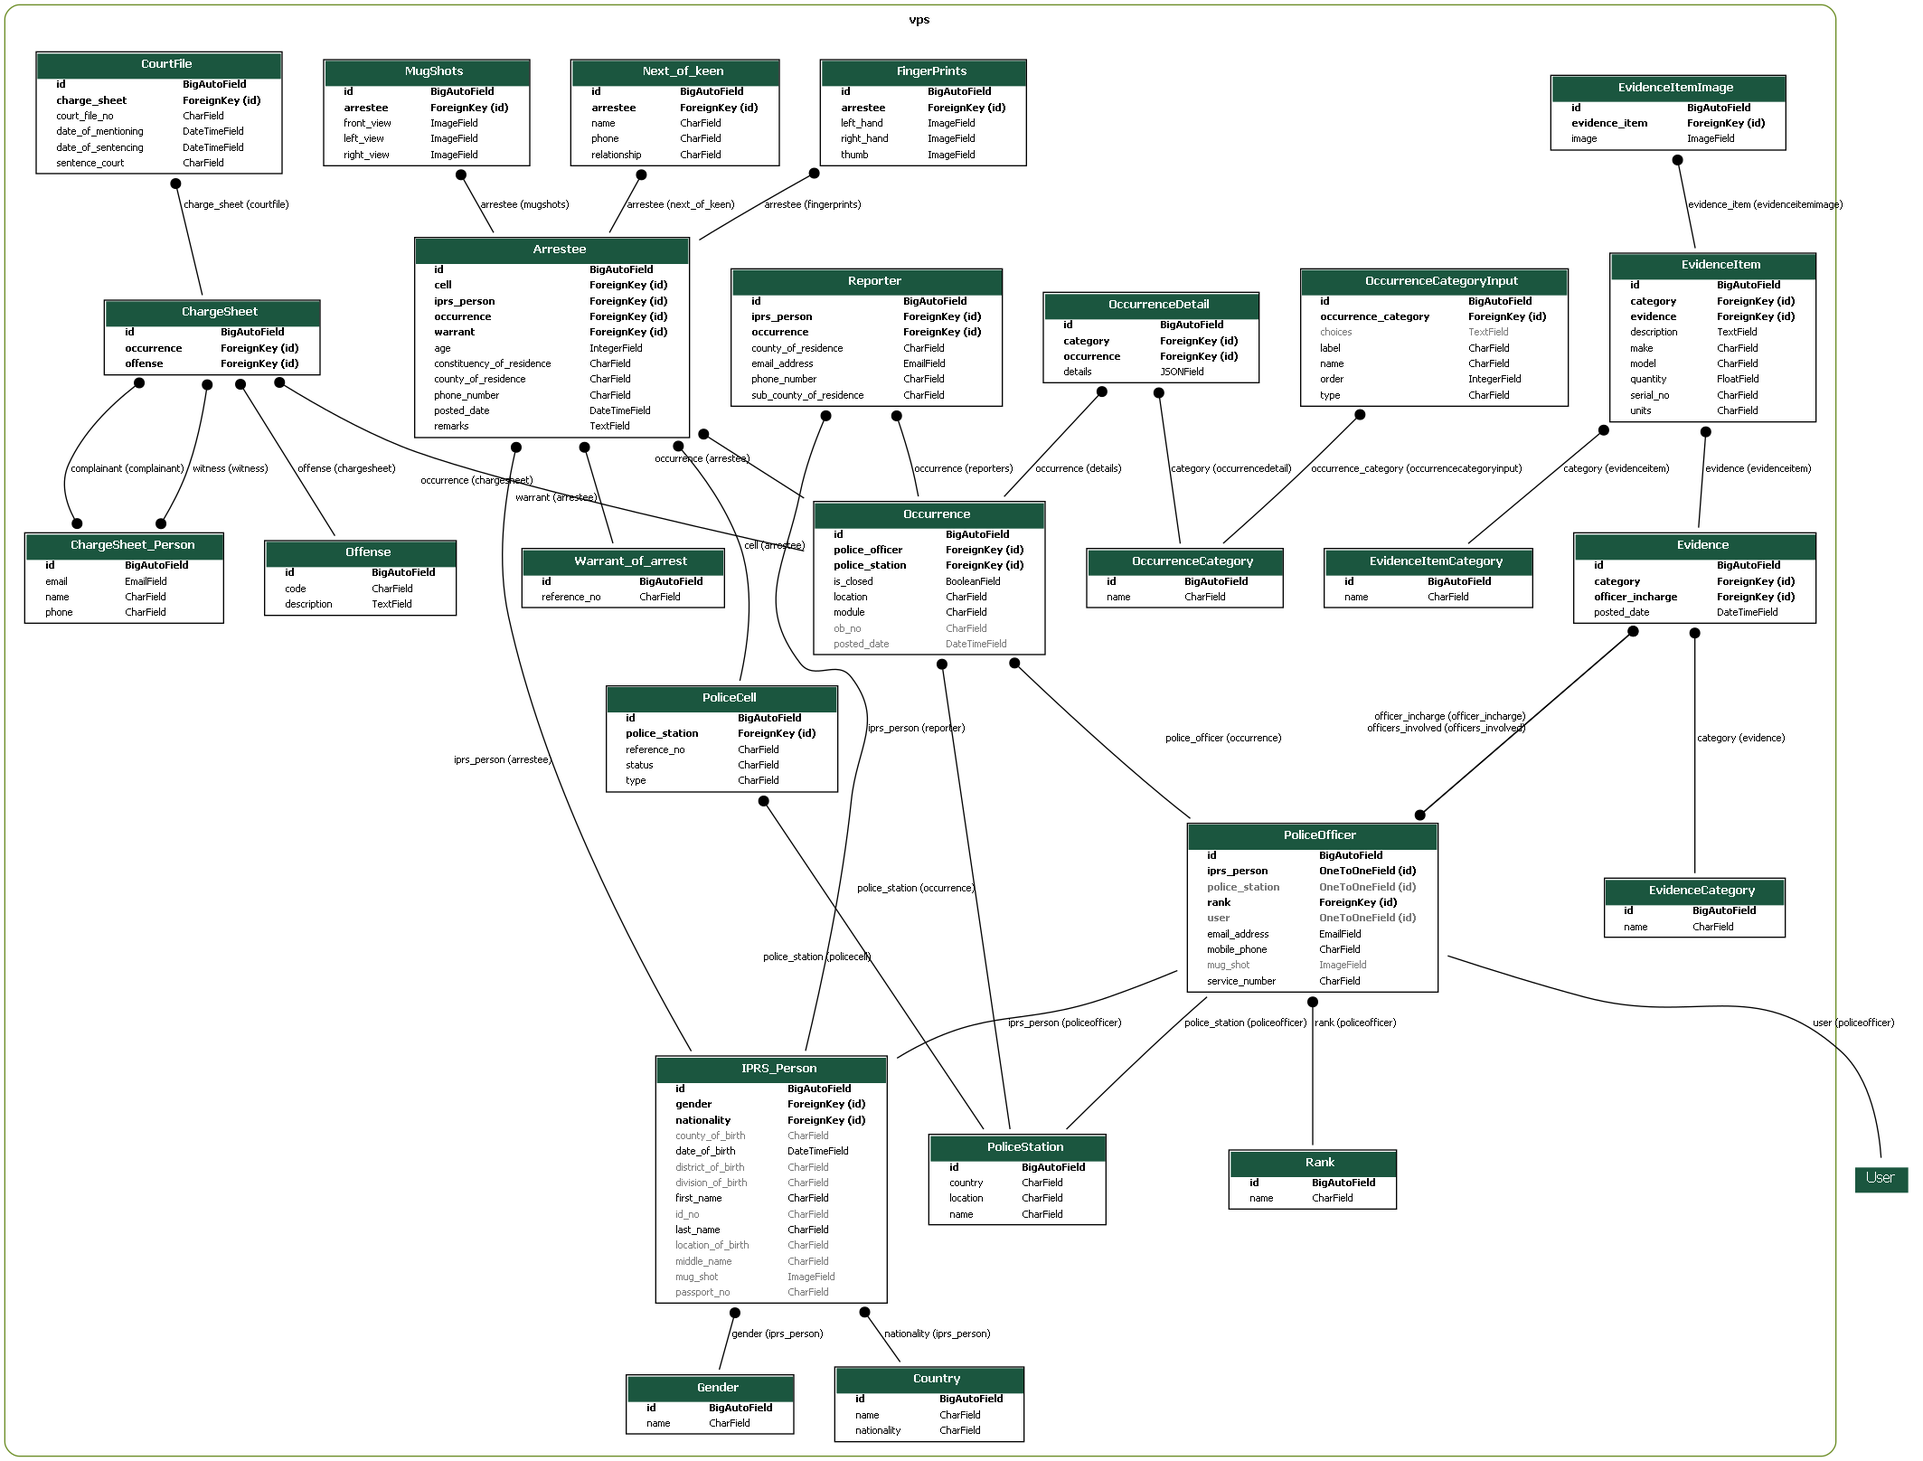
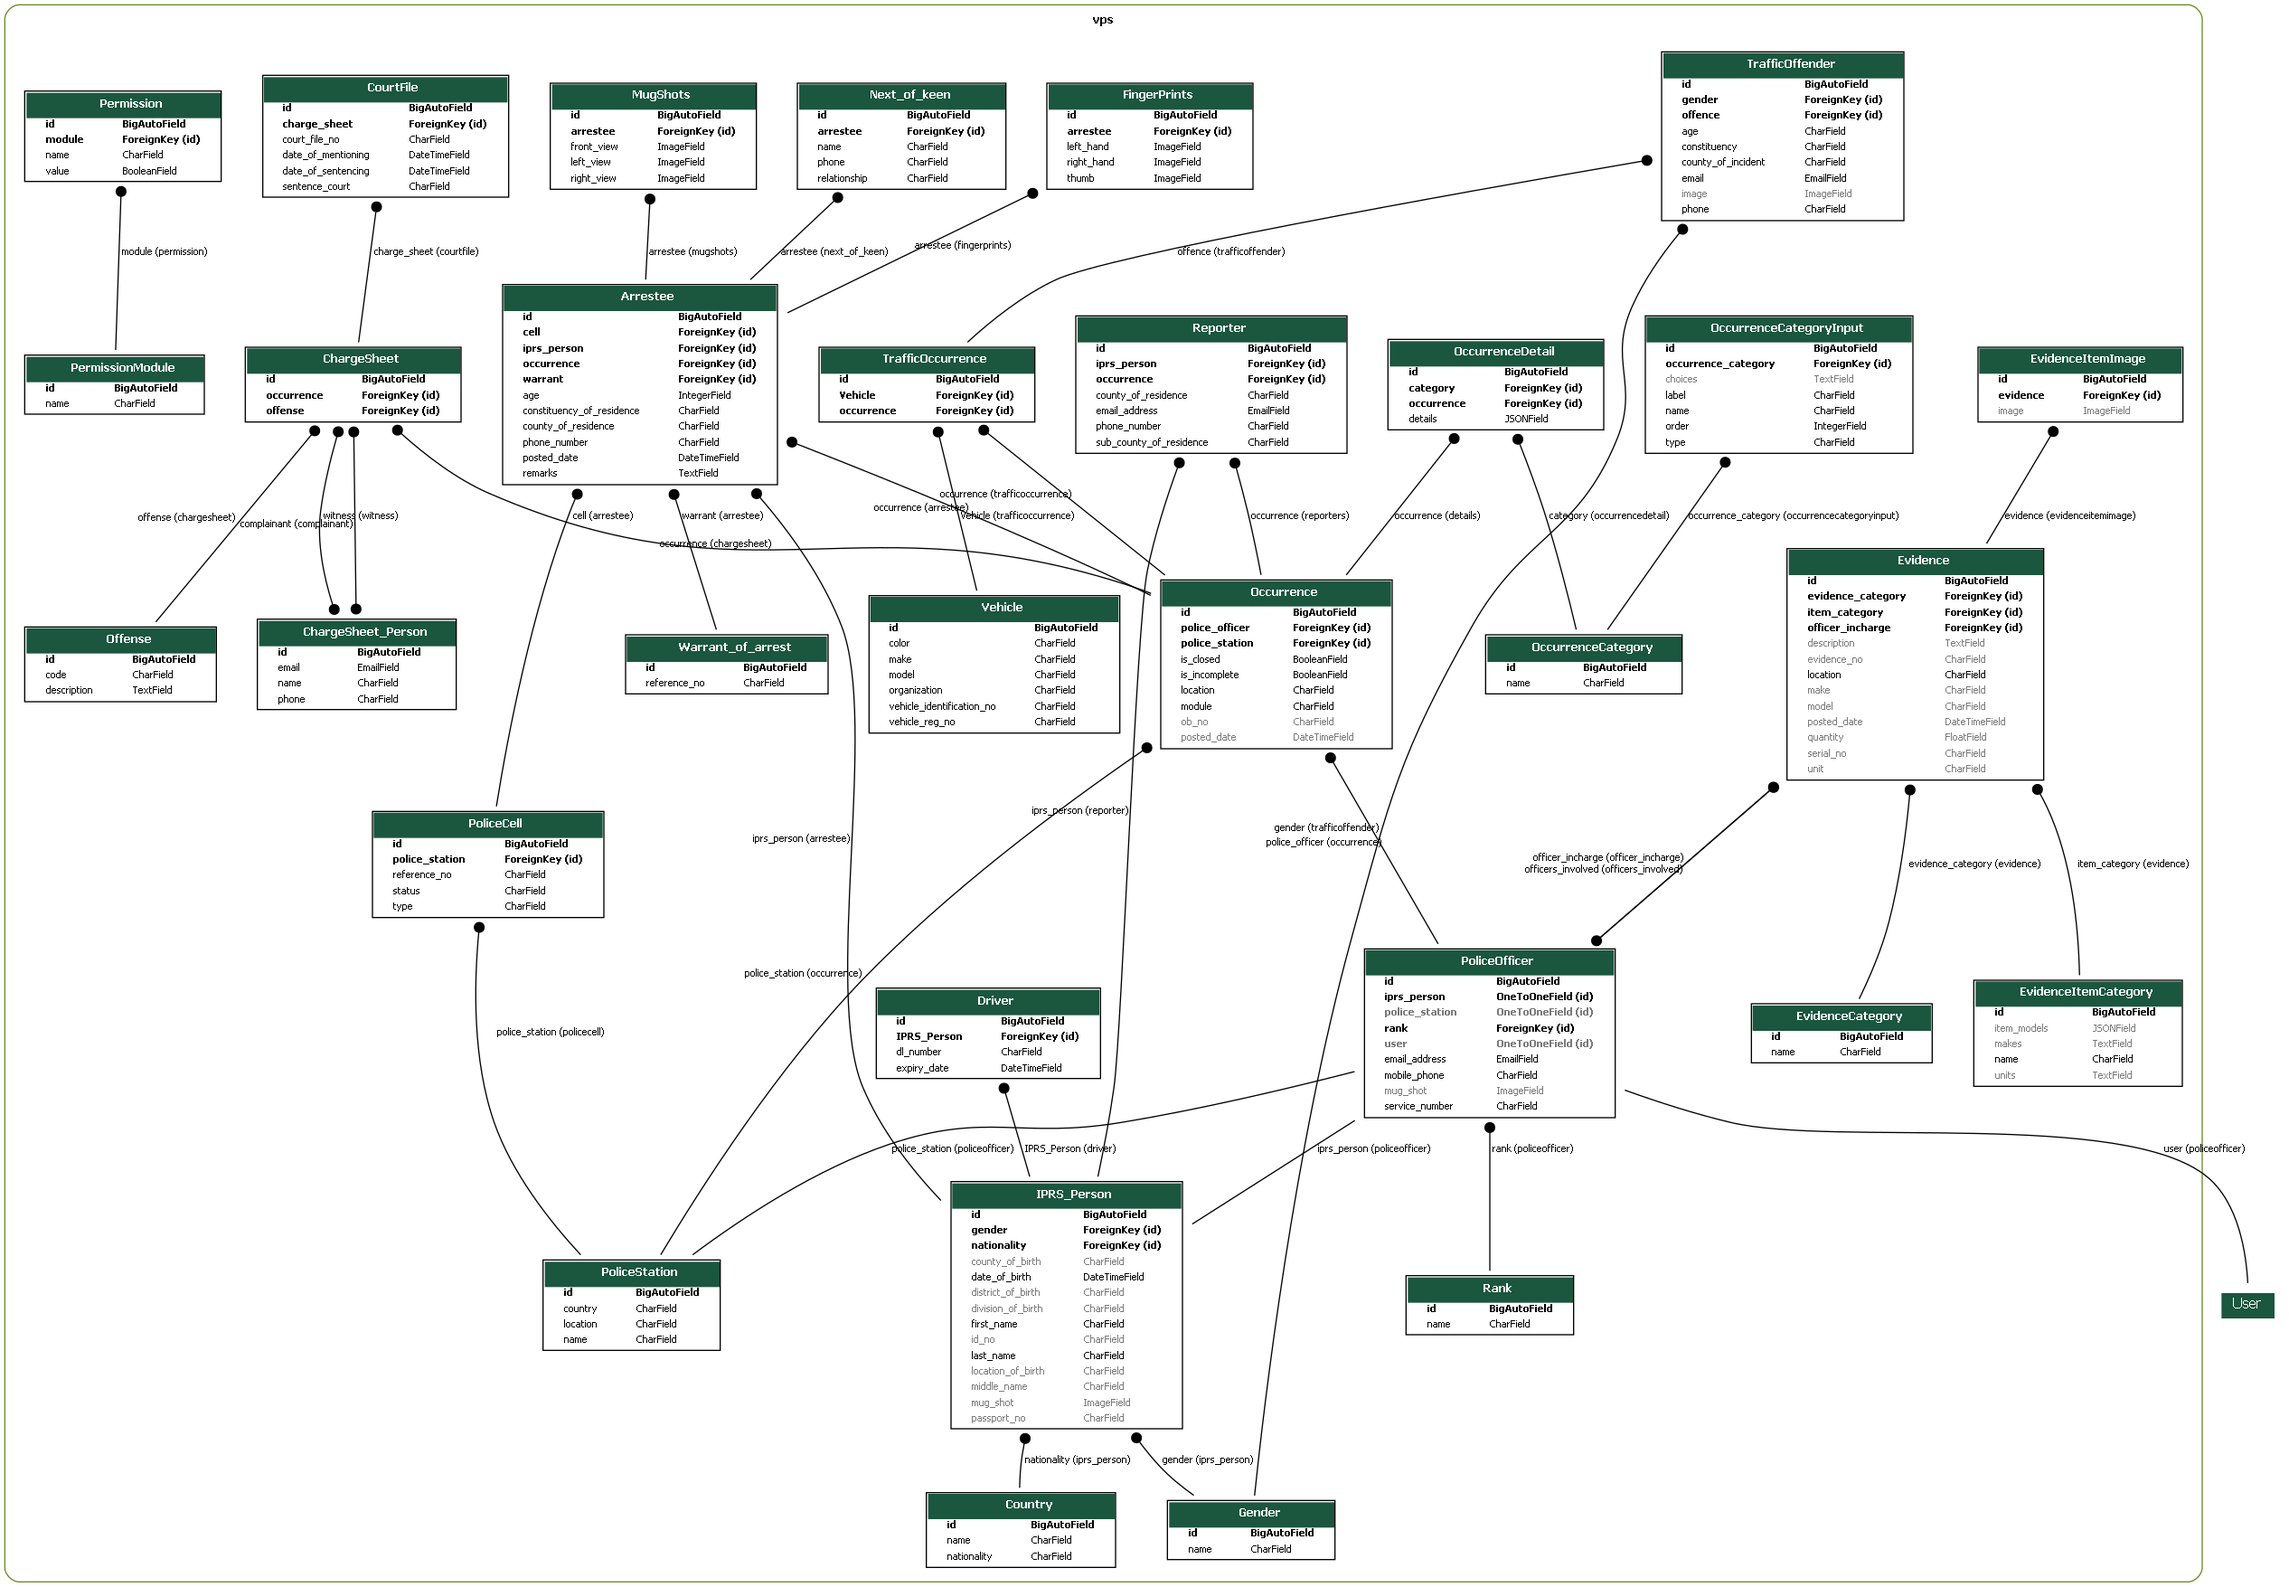
database changes: permissions, occurrences

diff --git a/vps/models.py b/vps/models.py
@@ -11,9 +11,15 @@ arrestee_fingerprint_directory_path, evidence_image_directory_path)
 class Gender(models.Model):
     name = models.CharField(max_length=30, unique=True)
 
+    def __str__(self) -> str:
+        return self.name
+
 class Country(models.Model):
     name = models.CharField(max_length=30, unique=True)
     nationality = models.CharField(max_length=30)
+
+    def __str__(self) -> str:
+        return self.name
     
 class IPRS_Person(models.Model):
     id_no = models.CharField(max_length=100, null=True, blank=True) # ! should be unique?
@@ -71,6 +77,7 @@ class Occurrence(models.Model):
     police_station = models.ForeignKey(PoliceStation, on_delete=models.PROTECT)
     police_officer = models.ForeignKey(PoliceOfficer, on_delete=models.PROTECT)
     module = models.CharField(max_length=30)
+    is_incomplete = models.BooleanField(default=True)
     is_closed = models.BooleanField(default=False)
     posted_date = models.DateTimeField(auto_now_add=True)
 
@@ -216,8 +223,7 @@ class EvidenceItemImage(models.Model):
     evidence = models.ForeignKey(Evidence, on_delete=models.PROTECT)
     image = models.ImageField(upload_to=evidence_image_directory_path, null=True, blank=True)
 
-
-
+# ! Focus on traffic module
 class Driver(models.Model):
     IPRS_Person = models.ForeignKey(IPRS_Person, on_delete=models.PROTECT)
     dl_number = models.CharField(max_length= 20)
@@ -231,7 +237,12 @@ class Vehicle(models.Model):
     color = models.CharField(max_length= 50)
     organization = models.CharField(max_length= 50)
 
-class TrafficOffender(models.Model):
+class TrafficOccurrence(models.Model): # The actual incident
+    occurrence = models.ForeignKey(Occurrence, on_delete=models.PROTECT)
+    Vehicle = models.ForeignKey(Vehicle, on_delete=models.PROTECT)
+
+class TrafficOffender(models.Model): # the bugger ressponsible
+    offence = models.ForeignKey(TrafficOccurrence, on_delete=models.PROTECT, null=True)
     gender = models.ForeignKey(Gender, on_delete=models.PROTECT)
     phone = models.CharField(max_length= 20)
     county_of_incident = models.CharField(max_length=30)
@@ -239,4 +250,23 @@ class TrafficOffender(models.Model):
     email = models.EmailField()
     age = models.CharField(max_length=8)
     image = models.ImageField(upload_to=offender_image_directory_path, null=True, blank=True)
-    Vehicle = models.ForeignKey(Vehicle, on_delete=models.PROTECT)
+
+# ! Focus on permission module
+class PermissionModule(models.Model):
+    name = models.CharField(max_length=30)
+
+    def __str__(self) -> str:
+        return self.name
+
+class Permission(models.Model):
+    NAME_CHOICE = (
+        ('add', 'Add'),
+        ('update', 'Update'),
+        ('delete', 'Delete'),
+    )
+    module = models.ForeignKey(PermissionModule, on_delete=models.PROTECT)
+    name = models.CharField(max_length=30, choices=NAME_CHOICE)
+    value = models.BooleanField(default=False)
+
+    def __str__(self) -> str:
+        return f'{self.module} - {self.name}'

diff --git a/vps/migrations/0030_permissionmodule_remove_trafficoffender_vehicle_and_more.py b/vps/migrations/0030_permissionmodule_remove_trafficoffender_vehicle_and_more.py
@@ -1,0 +1,47 @@
+# Generated by Django 4.0.3 on 2022-07-21 09:54
+
+from django.db import migrations, models
+import django.db.models.deletion
+
+
+class Migration(migrations.Migration):
+
+    dependencies = [
+        ('vps', '0029_vehicle_trafficoffender_driver'),
+    ]
+
+    operations = [
+        migrations.CreateModel(
+            name='PermissionModule',
+            fields=[
+                ('id', models.BigAutoField(auto_created=True, primary_key=True, serialize=False, verbose_name='ID')),
+                ('name', models.CharField(max_length=30)),
+            ],
+        ),
+        migrations.RemoveField(
+            model_name='trafficoffender',
+            name='Vehicle',
+        ),
+        migrations.CreateModel(
+            name='TrafficOccurrence',
+            fields=[
+                ('id', models.BigAutoField(auto_created=True, primary_key=True, serialize=False, verbose_name='ID')),
+                ('Vehicle', models.ForeignKey(on_delete=django.db.models.deletion.PROTECT, to='vps.vehicle')),
+                ('occurrence', models.ForeignKey(on_delete=django.db.models.deletion.PROTECT, to='vps.occurrence')),
+            ],
+        ),
+        migrations.CreateModel(
+            name='Permission',
+            fields=[
+                ('id', models.BigAutoField(auto_created=True, primary_key=True, serialize=False, verbose_name='ID')),
+                ('name', models.CharField(max_length=30)),
+                ('value', models.BooleanField(default=False)),
+                ('module', models.ForeignKey(on_delete=django.db.models.deletion.PROTECT, to='vps.permissionmodule')),
+            ],
+        ),
+        migrations.AddField(
+            model_name='trafficoffender',
+            name='offence',
+            field=models.ForeignKey(null=True, on_delete=django.db.models.deletion.PROTECT, to='vps.trafficoccurrence'),
+        ),
+    ]

diff --git a/vps/admin.py b/vps/admin.py
@@ -1,7 +1,8 @@
 from django.contrib import admin
 
 from .models import (Gender, Country, IPRS_Person, Rank, PoliceStation, PoliceOfficer,
-EvidenceCategory, EvidenceItemCategory, Evidence, EvidenceItemImage
+EvidenceCategory, EvidenceItemCategory, Evidence, EvidenceItemImage,
+PermissionModule, Permission
 )
 # Register your models here.
 
@@ -22,3 +23,9 @@ admin.site.register(EvidenceCategory)
 admin.site.register(EvidenceItemCategory)
 admin.site.register(Evidence)
 admin.site.register(EvidenceItemImage)
+
+class PermissionAdmin(admin.ModelAdmin):
+    # ...
+    list_display = ('module', 'name', 'value')
+admin.site.register(PermissionModule)
+admin.site.register(Permission, PermissionAdmin)

diff --git a/vps/migrations/0031_occurrence_is_incomplete_alter_permission_name.py b/vps/migrations/0031_occurrence_is_incomplete_alter_permission_name.py
@@ -1,0 +1,23 @@
+# Generated by Django 4.0.3 on 2022-08-13 00:52
+
+from django.db import migrations, models
+
+
+class Migration(migrations.Migration):
+
+    dependencies = [
+        ('vps', '0030_permissionmodule_remove_trafficoffender_vehicle_and_more'),
+    ]
+
+    operations = [
+        migrations.AddField(
+            model_name='occurrence',
+            name='is_incomplete',
+            field=models.BooleanField(default=True),
+        ),
+        migrations.AlterField(
+            model_name='permission',
+            name='name',
+            field=models.CharField(choices=[('add', 'Add'), ('update', 'Update'), ('delete', 'Delete')], max_length=30),
+        ),
+    ]
